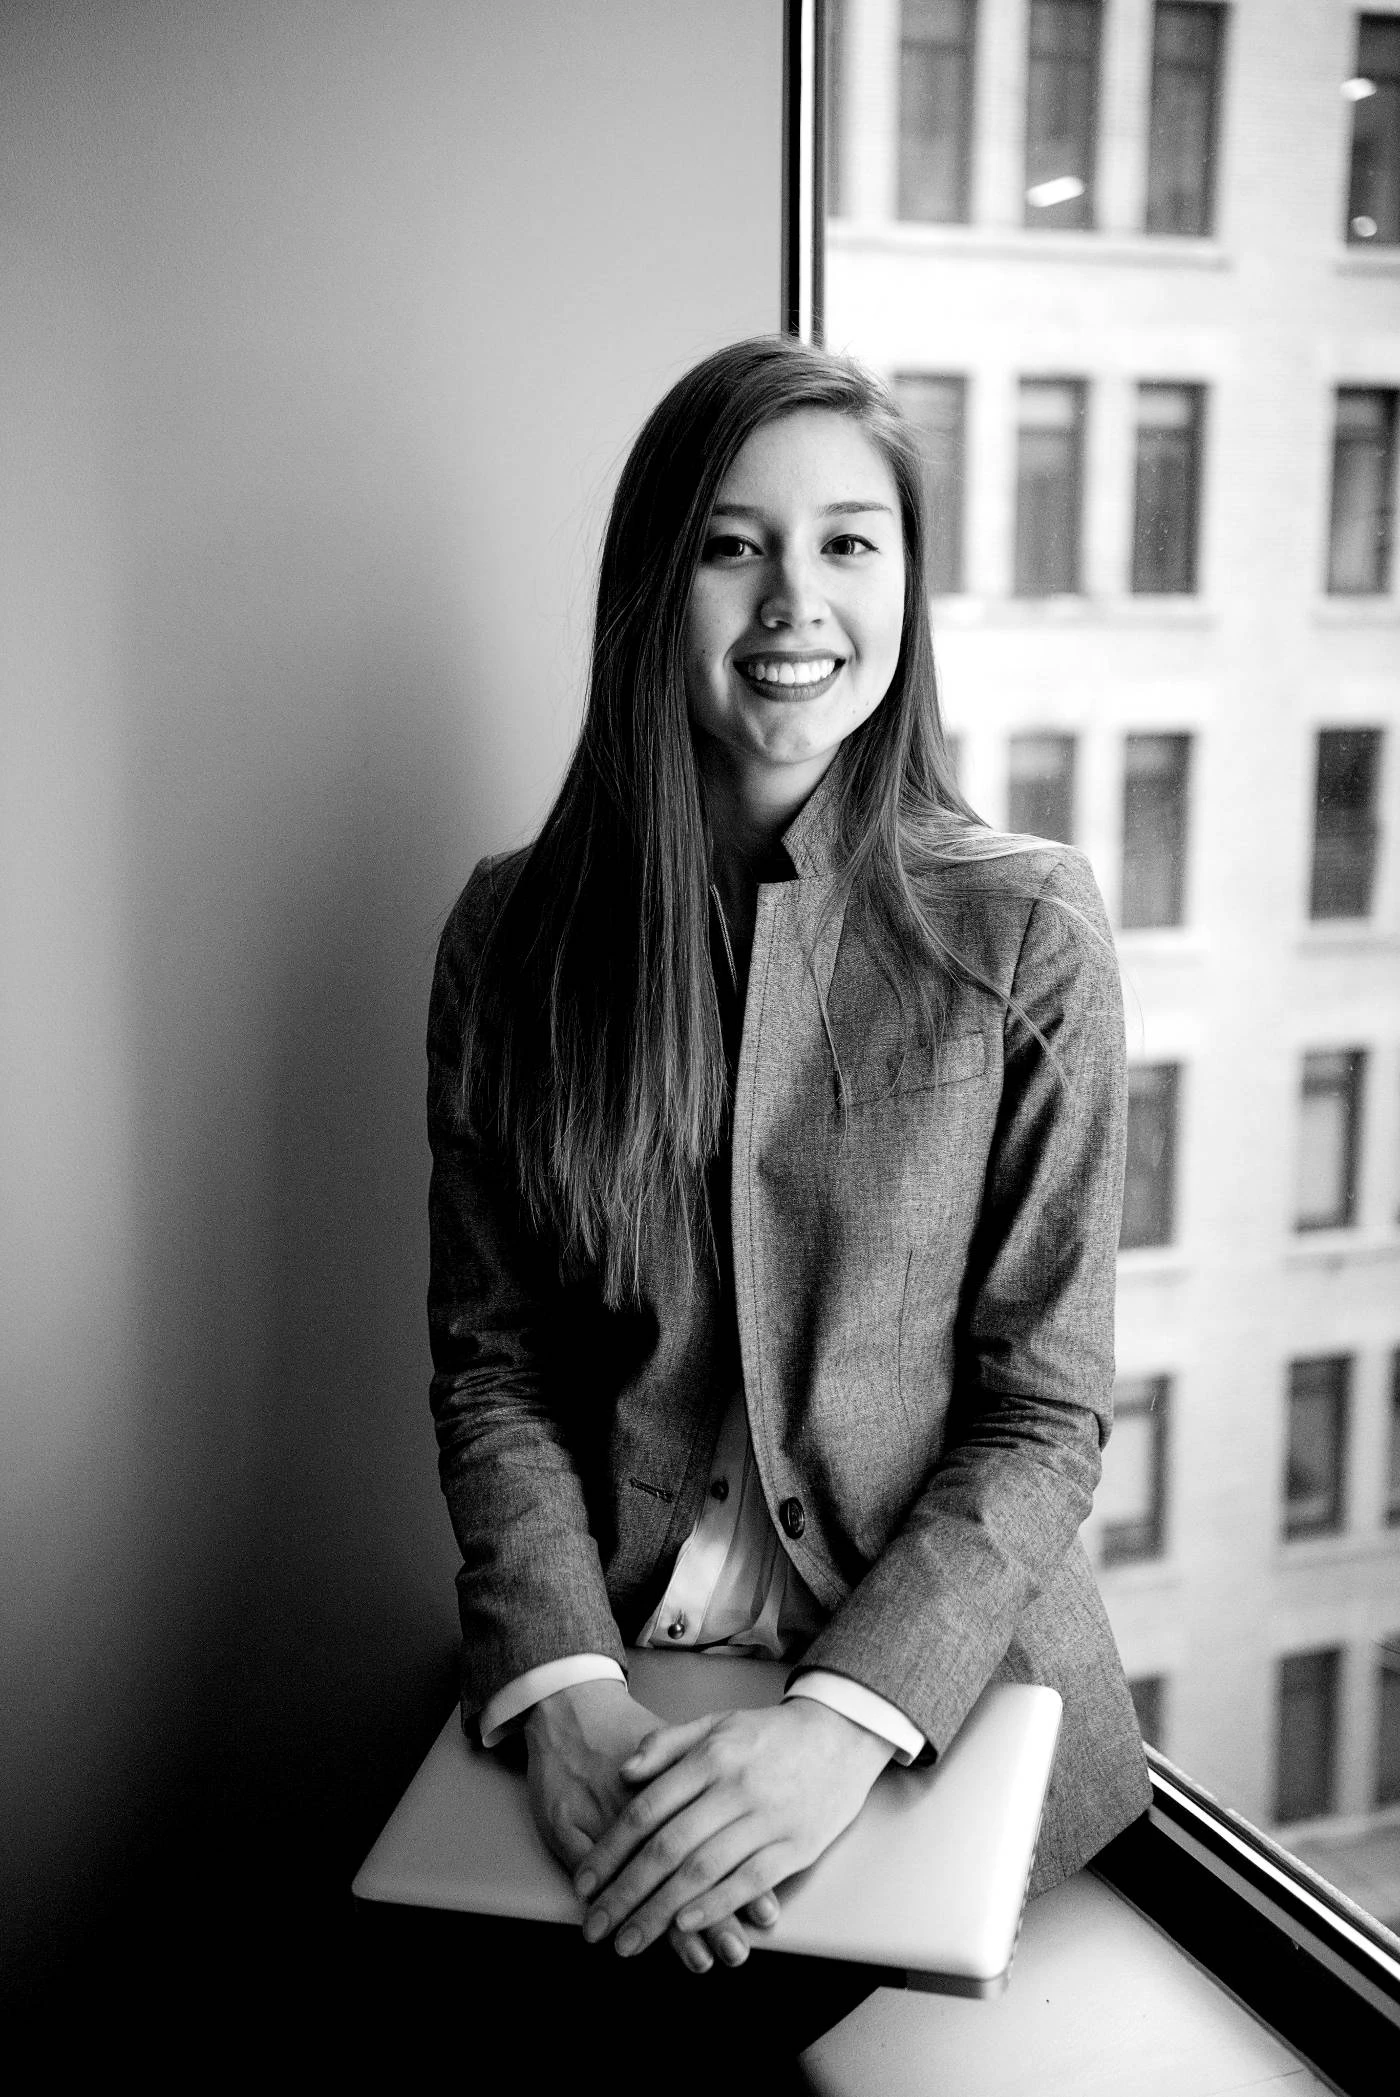
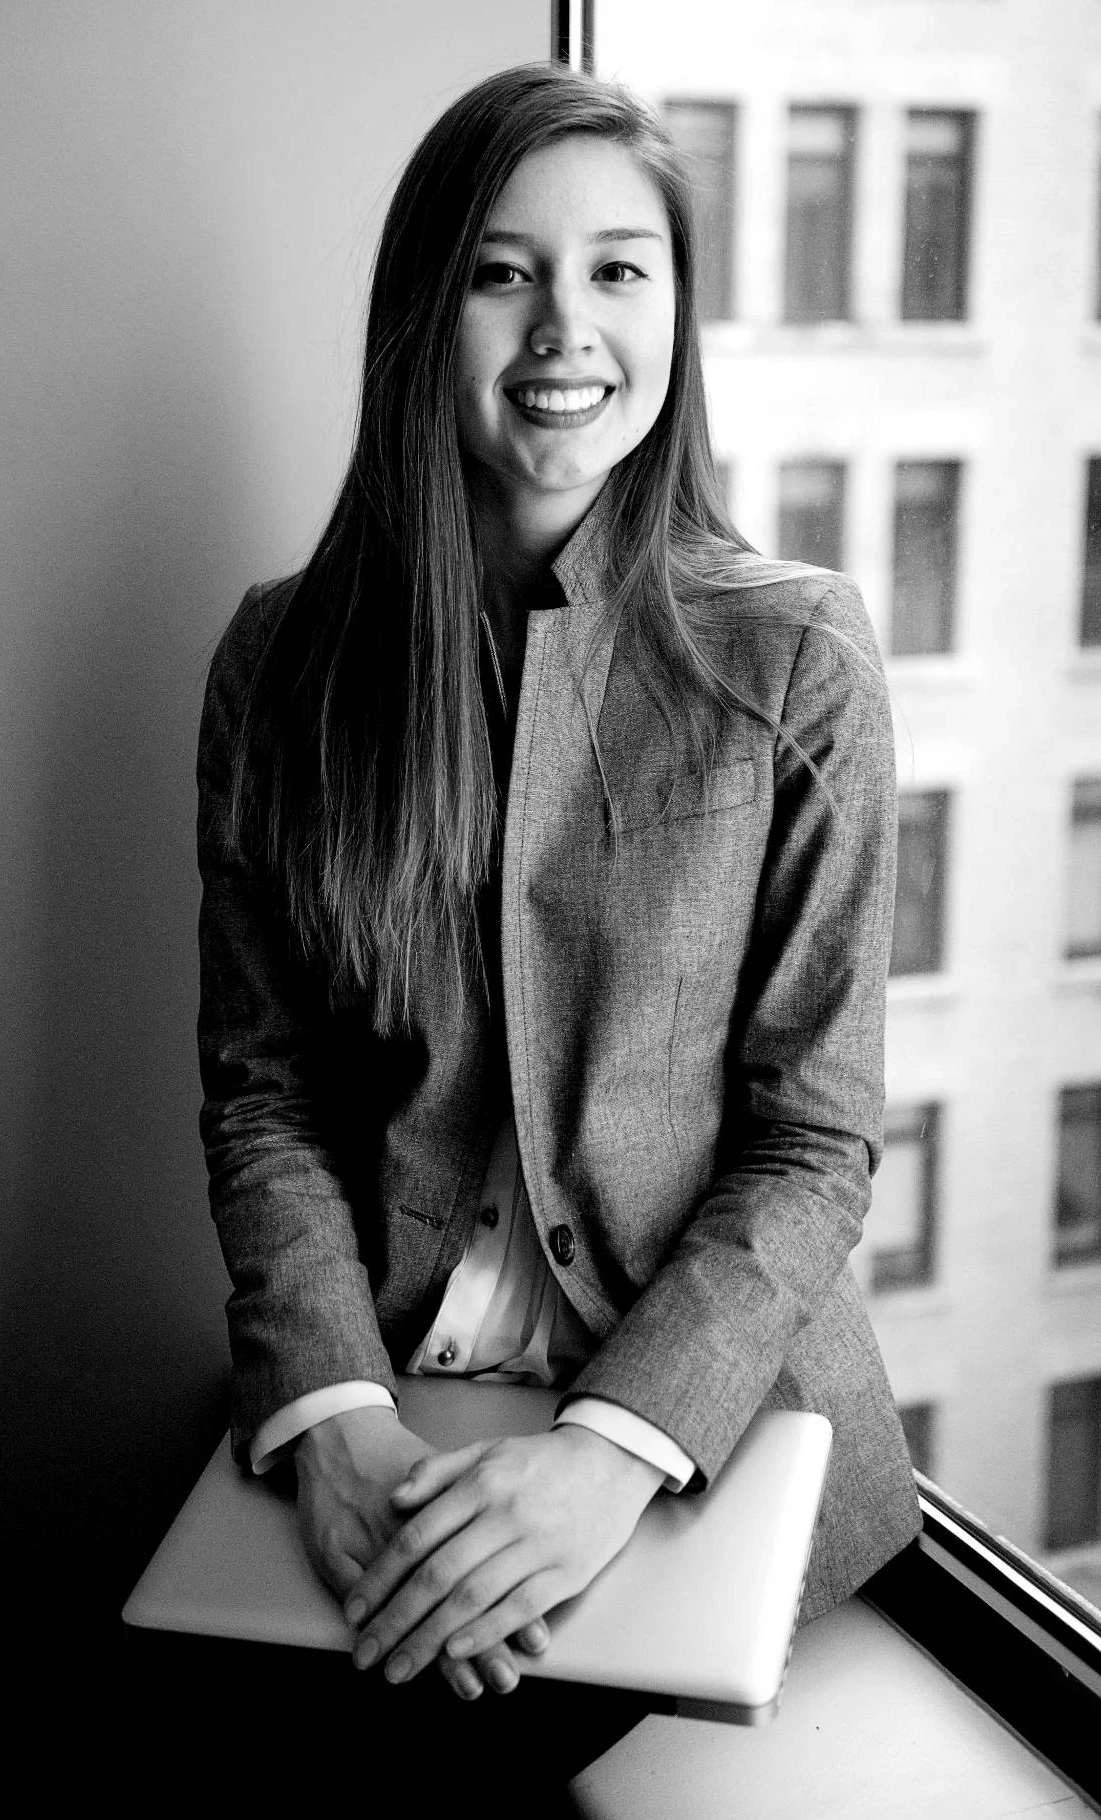
Bilder uppdaterade

diff --git a/src/views/personas/personas.scss b/src/views/personas/personas.scss
@@ -136,6 +136,7 @@ $bg-images: url("../../assets/photos/personas/*.webp");
           position: relative;
           width: calc(100vw - #{$sidePad * 2 + 2px});
           height: 100%;
+
           transition: transform $moveAT $expandAT;
           will-change: transform;
 
@@ -145,7 +146,7 @@ $bg-images: url("../../assets/photos/personas/*.webp");
             left: 0;
             top: -5%;
             width: 100%;
-            height: 110%;
+            height: 225%;
 
             transition: transform $initAT;
             transform: translate3d(0, 0, 0) scale(1);
